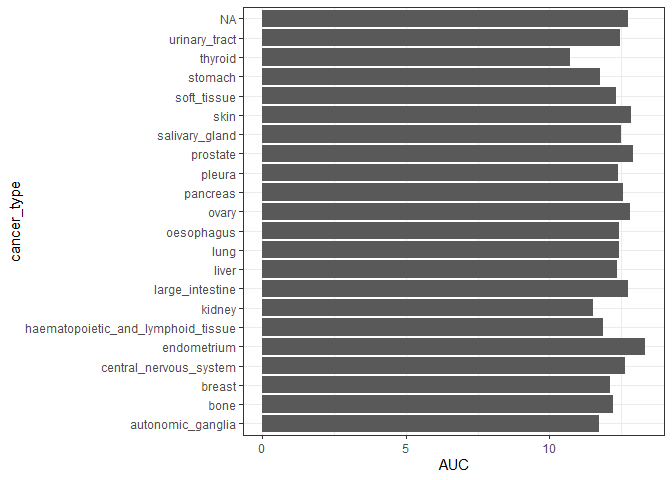
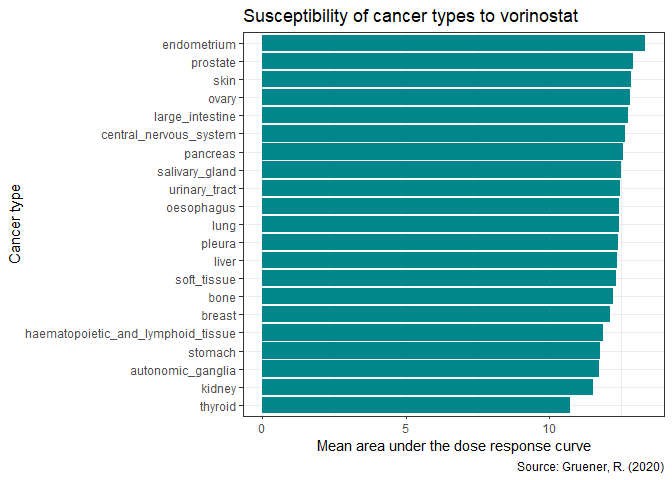
Done!

diff --git a/HW05.md b/HW05.md
@@ -7,10 +7,6 @@ Ricardo Muñiz Trejo
 
 Untidied version of the dad\_mom data frame:
 
-``` r
-dad_mom_messy <- read_tsv("dad_mom.txt")
-```
-
     ## Parsed with column specification:
     ## cols(
     ##   fam_id = col_double(),
@@ -20,40 +16,42 @@ dad_mom_messy <- read_tsv("dad_mom.txt")
     ##   income_mom = col_double()
     ## )
 
-``` r
-kable(dad_mom_messy, format = "markdown")
-```
-
 | fam\_id | name\_dad | income\_dad | name\_mom | income\_mom |
 | ------: | :-------- | ----------: | :-------- | ----------: |
 |       1 | Bill      |       30000 | Bess      |       15000 |
 |       2 | Art       |       22000 | Amy       |       22000 |
 |       3 | Paul      |       25000 | Pat       |       50000 |
 
-Tidied version of the dad\_mom data frame:
+Besides **fam\_id**, **name**, and **income**, dad\_mom.txt includes a
+fourth variable: whether the parent is the dad or the mom, which I’ll
+simply call **parent**. Therefore, we need to reshape the table to have
+the names and income in a single column and create a new variable that
+specifies if the parent is mom or dad.
+
+Here’s the tidied version of the dad\_mom data frame:
 
 ``` r
-#Ok, this one can be confusing. The objective is to have 4 variables: fam_id, name, parent, income
+#Ok, this one can be confusing, even for me, I'll try to explain it as best as I can. 
 
 dad_mom_tidy <- dad_mom_messy %>%
-  #First we need to create the parent variable which considers if its the mom or the dad
+  #Since the parent variable only exist in the column names (i. e. *_mom, *_dad), I created new columns that specify if the parent is mom or dad.
   separate(col = name_dad, into = c("name_dad", "parent_dad")) %>%
-  separate(col = name_mom, into = c("name_mom", "parent_mom")) %>%
+  separate(col = name_mom, into = c("name_mom", "parent_mom")) %>% #parent_mom/parent_dad will be empty columns
   replace_na(list(parent_dad = "dad",
-                  parent_mom = "mom")) %>%
+                  parent_mom = "mom")) %>% #I filled the empty columns with the proper value (dad/mom)
   
-  #For the moment, I joined the name and parent variables into one
+  #For now, I joined the name and parent variables into one to manipulate them later easily
   unite(name_dad, parent_dad, col = "name_dad", sep = "_") %>%
   unite(name_mom, parent_mom, col = "name_mom", sep = "_") %>%
   
-  #Now we need to spread the combined name variables to gain columns with the parents names
+  #Since I need all the names in a single column, I spread them first as variables, with the income as observations. This creates a data frame with a lot of NA values
   spread(key = name_dad, value = income_dad) %>%
   spread(key = name_mom, value = income_mom) %>%
   
-  #We gather everything, eliminating NAs, to get a single column
+  #Now that the parents names are read as variables, I only need to gather them into a single key column, with incomes as the value column. I also eliminated the NA values in the income.
   gather(key = "name", value = "income", -fam_id, na.rm = TRUE) %>%
   
-  #Finally, we separate name and parent variables to finish
+  #Finally, we separate name and parent variables (remember they were united) to get the last variable, parent, into a single column
   separate(col = name, into = c("name", "parent")) %>%
   arrange(fam_id)
 ```
@@ -140,43 +138,33 @@ experiment_info <- read_csv("CTRP_files/experiment_info.csv")
 #### Joining process:
 
 ``` r
-#Bind the AUC files to get a master file
+#Bind the AUC files to get a single file
 AUC_total <- AUC_1 %>%
   bind_rows(AUC_2)
 
-glimpse(AUC_total)
-```
-
-    ## Rows: 215,263
-    ## Columns: 3
-    ## $ experiment_id    <dbl> 1, 1, 1, 1, 1, 1, 1, 1, 1, 1, 1, 1, 1, 1, 1, 1, 1,...
-    ## $ area_under_curve <dbl> 14.782, 13.327, 16.082, 13.743, 13.390, 14.385, 13...
-    ## $ master_cpd_id    <dbl> 1788, 3588, 12877, 19153, 23256, 25036, 25334, 253...
-
-``` r
+#Let's join with the remaining data frames
 CTRP_df <- AUC_total %>%
   inner_join(experiment_info, by = c("experiment_id" = "master_ccl_id")) %>%
   inner_join(cancer_cell_line_info, by = c("experiment_id" = "master_ccl_id")) %>%
   inner_join(compound_info, by = "master_cpd_id") %>%
-  drop_na(gene_symbol_of_protein_target) %>%
-  separate_rows(gene_symbol_of_protein_target, sep = ";")
+  separate_rows(gene_symbol_of_protein_target, sep = ";") #Tidy up that variable
 
 
 glimpse(CTRP_df)
 ```
 
-    ## Rows: 218,316
+    ## Rows: 243,482
     ## Columns: 10
     ## $ experiment_id                 <dbl> 1, 1, 1, 1, 1, 1, 1, 1, 1, 1, 1, 1, 1...
-    ## $ area_under_curve              <dbl> 14.3850, 14.3850, 14.3850, 14.3850, 1...
-    ## $ master_cpd_id                 <dbl> 25036, 25036, 25036, 25036, 25036, 25...
+    ## $ area_under_curve              <dbl> 14.782, 13.327, 16.082, 13.743, 13.39...
+    ## $ master_cpd_id                 <dbl> 1788, 3588, 12877, 19153, 23256, 2503...
     ## $ expt_id                       <dbl> 517, 517, 517, 517, 517, 517, 517, 51...
     ## $ experiment_date               <dbl> 20121009, 20121009, 20121009, 2012100...
     ## $ cells_per_well                <dbl> 500, 500, 500, 500, 500, 500, 500, 50...
     ## $ ccl_name                      <chr> "697", "697", "697", "697", "697", "6...
     ## $ cancer_type                   <chr> "haematopoietic_and_lymphoid_tissue",...
-    ## $ cpd_name                      <chr> "gossypol", "gossypol", "gossypol", "...
-    ## $ gene_symbol_of_protein_target <chr> "BCL2", "BCL2L1", "LDHA", "LDHB", "LD...
+    ## $ cpd_name                      <chr> "CIL55", "BRD4132", "BRD6340", "BRD98...
+    ## $ gene_symbol_of_protein_target <chr> NA, NA, NA, NA, NA, "BCL2", "BCL2L1",...
 
 #### Answering the questions:
 
@@ -196,37 +184,26 @@ CTRP_df_q1 <- CTRP_df %>%
   filter(cpd_name == "vorinostat") %>%
   group_by(cancer_type) %>%
   summarize(AUC = mean(area_under_curve)) %>%
+  drop_na(cancer_type) %>% #There is a NA cancer type, it's not the lowest value, so I eliminated it.
   arrange(AUC)
 ```
 
     ## `summarise()` ungrouping output (override with `.groups` argument)
 
 ``` r
-CTRP_df_q1
-```
-
-    ## # A tibble: 22 x 2
-    ##    cancer_type                          AUC
-    ##    <chr>                              <dbl>
-    ##  1 thyroid                             10.7
-    ##  2 kidney                              11.5
-    ##  3 autonomic_ganglia                   11.7
-    ##  4 stomach                             11.8
-    ##  5 haematopoietic_and_lymphoid_tissue  11.9
-    ##  6 breast                              12.1
-    ##  7 bone                                12.2
-    ##  8 soft_tissue                         12.3
-    ##  9 liver                               12.4
-    ## 10 pleura                              12.4
-    ## # ... with 12 more rows
-
-``` r
-ggplot(CTRP_df_q1, aes(cancer_type, AUC)) +
-  geom_col() +
-  coord_flip()
+ggplot(CTRP_df_q1, aes(fct_inorder(cancer_type), AUC)) +
+  geom_col(fill = "turquoise4") +
+  labs(title = "Susceptibility of cancer types to vorinostat",
+       y = "Mean area under the dose response curve",
+       x = "Cancer type",
+       caption = "Source: Gruener, R. (2020)") +
+  theme(legend.position = "none")+
+  coord_flip() #flipping x and y-axes helps with the very long names of cancer types
 ```
 
 ![](HW05_files/figure-gfm/unnamed-chunk-5-1.png)<!-- -->
+
+    ## [1] "thyroid cancer has the lowest AUC value to vorinostat"
 
   - Which compound is the prostate cancer cell line 22RV1 most sensitive
     to? (For 22RV1, which compound has the lowest AUC value?)
@@ -239,29 +216,25 @@ CTRP_df_q2 <- CTRP_df %>%
   filter(cancer_type == "prostate", ccl_name == "22RV1") %>%
   group_by(cpd_name) %>%
   summarize(AUC = mean(area_under_curve)) %>%
-  arrange(AUC)
+  arrange(AUC) %>%
+  top_n(-10, AUC) #I cheat a little bit in here. Because there are so many compounds that interact with 22RV1 that in the graph it becomes difficult to read the labels, I decided to narrow the number of compounds to the top (or "bottom" in this case, hence the negative number) 10 with the lowest AUC. 
 ```
 
     ## `summarise()` ungrouping output (override with `.groups` argument)
 
 ``` r
-CTRP_df_q2
+ggplot(CTRP_df_q2, aes(fct_inorder(cpd_name), y = AUC)) +
+  geom_col(fill = "deeppink2") +
+  labs(title = "Prostate cancer cell line 22RV1 susceptibility to \ndifferent cancer drugs",
+       x = "Drug name",
+       y = "Mean area under the dose response curve",
+       caption = "Source: Gruener, R. (2020)") +
+  coord_flip() #same reason as before
 ```
 
-    ## # A tibble: 45 x 2
-    ##    cpd_name                               AUC
-    ##    <chr>                                <dbl>
-    ##  1 N9-isopropylolomoucine              0.0835
-    ##  2 serdemetan:SCH-529074 (1:1 mol/mol) 0.111 
-    ##  3 leptomycin B                        1.17  
-    ##  4 topotecan                           4.05  
-    ##  5 brefeldin A                         4.50  
-    ##  6 CR-1-31B                            5.82  
-    ##  7 KX2-391                             6.29  
-    ##  8 CAY10618                            6.42  
-    ##  9 obatoclax                           6.71  
-    ## 10 SN-38                               6.89  
-    ## # ... with 35 more rows
+![](HW05_files/figure-gfm/unnamed-chunk-7-1.png)<!-- -->
+
+    ## [1] "Prostate cancer cell line 22RV1 is the most sensitve to N9-isopropylolomoucine"
 
   - For the 10 compounds that target EGFR, which of them has (on
     average) the lowest AUC values in the breast cancer cell lines?
@@ -279,23 +252,21 @@ CTRP_df_q3 <- CTRP_df %>%
     ## `summarise()` ungrouping output (override with `.groups` argument)
 
 ``` r
-CTRP_df_q3
+cpd_labels <- c("Afatinib", "Neratinib", "Gefatinib", "WZ8040", "Canertinib", "Erlotinib:PLX-4032", "Vandetanib", "Erlotinib", "Lapatinib", "WZ4002", "PD 153035") #Simplified compound names
+
+ggplot(CTRP_df_q3, aes(fct_inorder(cpd_name), AUC)) +
+  geom_col(fill = "forestgreen") +
+  theme(axis.text.x = element_text(angle = 45, hjust = 1)) +
+  labs(title = "Compounds that target the EGFR gene in breast cancer cell lines",
+       x = "Drug name",
+       y = "Mean area under the dose response curve",
+       caption = "Source: Gruener, R. (2020)") +
+  scale_x_discrete(labels = cpd_labels)
 ```
 
-    ## # A tibble: 11 x 2
-    ##    cpd_name                           AUC
-    ##    <chr>                            <dbl>
-    ##  1 afatinib                          10.3
-    ##  2 neratinib                         10.7
-    ##  3 gefitinib                         11.6
-    ##  4 WZ8040                            11.7
-    ##  5 canertinib                        11.9
-    ##  6 erlotinib:PLX-4032 (2:1 mol/mol)  12.4
-    ##  7 vandetanib                        12.4
-    ##  8 erlotinib                         12.6
-    ##  9 lapatinib                         12.7
-    ## 10 WZ4002                            12.8
-    ## 11 PD 153035                         14.6
+![](HW05_files/figure-gfm/unnamed-chunk-9-1.png)<!-- -->
+
+    ## [1] "On average, afatinib has the lowest AUC value in the breast cancer cell lines"
 
 ## Session info
 
